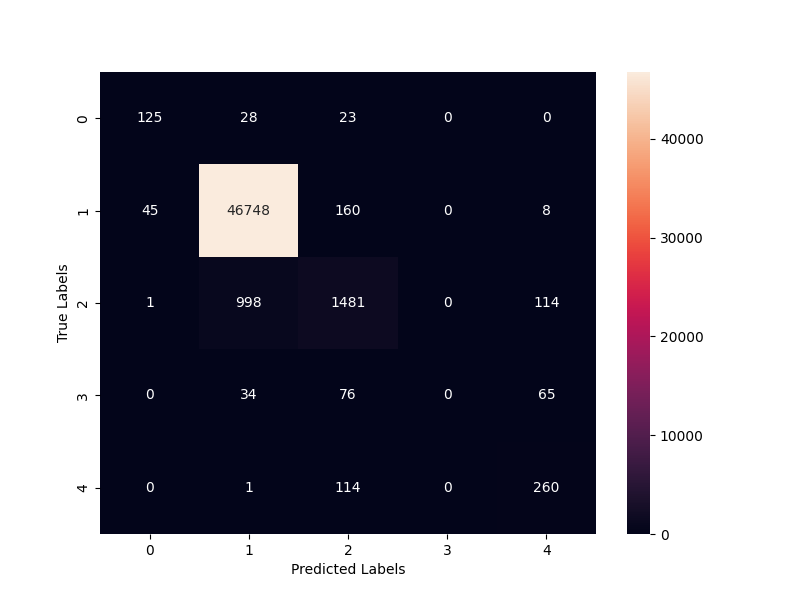
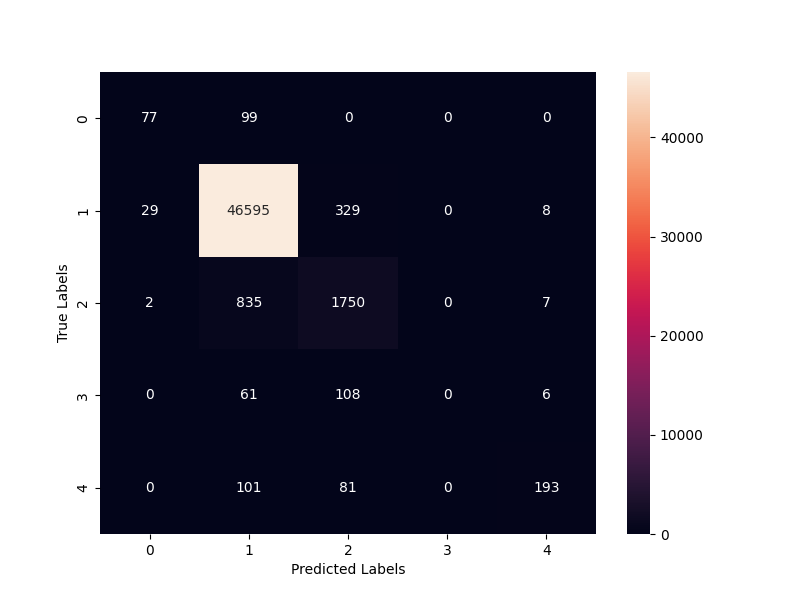
final

diff --git a/model/XGBoost.py b/model/XGBoost.py
@@ -9,36 +9,74 @@ from sklearn.metrics import confusion_matrix, precision_recall_fscore_support
 import seaborn as sns
 import matplotlib.pyplot as plt
 
-with open("test4.txt", "w") as f:
-    f.write("OK " )
-
 X, y = get_data()
 X_train, X_test, y_train, y_test = train_test_split(X, y, test_size=0.2, stratify=y, random_state=42)
 
-# Thay thế KNeighborsClassifier bằng GradientBoostingClassifier
-gb_classifier = GradientBoostingClassifier()  
+# # Thay thế KNeighborsClassifier bằng GradientBoostingClassifier
+# gb_classifier = GradientBoostingClassifier() 
 
-gb_classifier.fit(X_train, y_train)
-predictions = gb_classifier.predict(X_test)
+# param_grid = {
+#     'n_estimators': [100, 200, 300],
+#     'learning_rate': [0.01, 0.1, 0.2],
+#     'max_depth': [3, 4, 5]
+# } 
+
+# gb_classifier.fit(X_train, y_train)
+# predictions = gb_classifier.predict(X_test)
 
 # Evaluate the classifier
-accuracy = gb_classifier.score(X_test, y_test)
+# accuracy = gb_classifier.score(X_test, y_test)
 
-# Calculate metrics
-precision, recall, f1_score, _ = precision_recall_fscore_support(y_test, predictions, average='macro')
-confusion_matrix_result = confusion_matrix(y_test, predictions)
+# # Calculate metrics
+# precision, recall, f1_score, _ = precision_recall_fscore_support(y_test, predictions, average='macro')
+# confusion_matrix_result = confusion_matrix(y_test, predictions)
 
-# Save metrics to file
-with open("result/metrics_gb.txt", "w") as f:
-    f.write(f'+ precision = {precision:.3f}\n')
-    f.write(f'+ recall = {recall:.3f}\n')
-    f.write(f'+ f1_score = {f1_score:.3f}\n')
-    f.write(f'+ accuracy = {accuracy:.3f}\n')
+# # Save metrics to file
+# with open("result/metrics_gb.txt", "w") as f:
+#     f.write(f'+ precision = {precision:.3f}\n')
+#     f.write(f'+ recall = {recall:.3f}\n')
+#     f.write(f'+ f1_score = {f1_score:.3f}\n')
+#     f.write(f'+ accuracy = {accuracy:.3f}\n')
 
-# Save confusion matrix plot to file
-plt.figure(figsize=(8,6))
-ax = sns.heatmap(data=confusion_matrix_result, fmt="d", annot=True)
-ax.set_xlabel("Predicted Labels")
-ax.set_ylabel("True Labels")
-plt.savefig("result/confusion_matrix_gb.png")  # Save the plot to a file
-plt.close()
+# # Save confusion matrix plot to file
+# plt.figure(figsize=(8,6))
+# ax = sns.heatmap(data=confusion_matrix_result, fmt="d", annot=True)
+# ax.set_xlabel("Predicted Labels")
+# ax.set_ylabel("True Labels")
+# plt.savefig("result/confusion_matrix_gb.png")  # Save the plot to a file
+# plt.close()
+
+
+
+from xgboost import XGBClassifier
+from sklearn.model_selection import GridSearchCV
+from sklearn.metrics import accuracy_score
+
+# Define the classifier
+xgb_classifier = XGBClassifier()
+
+# Define the parameter grid for tuning
+param_grid = {
+    'n_estimators': [100, 200, 300],
+    'learning_rate': [0.01, 0.1, 0.2],
+    'max_depth': [3, 4, 5]
+}
+
+# Perform Grid Search Cross Validation
+grid_search = GridSearchCV(estimator=xgb_classifier, param_grid=param_grid, cv=3, scoring='accuracy')
+grid_search.fit(X_train, y_train)
+
+# Get the best parameters
+best_params = grid_search.best_params_
+
+# Train the model with the best parameters
+best_xgb_classifier = XGBClassifier(**best_params)
+best_xgb_classifier.fit(X_train, y_train)
+
+# Make predictions
+predictions = best_xgb_classifier.predict(X_test)
+
+# Evaluate the classifier
+accuracy = accuracy_score(y_test, predictions)
+print("Best Parameters:", grid_search.best_params_)
+print("Best Accuracy:", grid_search.best_score_)

diff --git a/model/ANN.py b/model/ANN.py
@@ -25,8 +25,8 @@ X_train, X_test, y_train, y_test = train_test_split(X, y, test_size=0.2, stratif
 # Model
 model = Sequential()
 # input shape
-model.add(Dense(10, activation='relu', input_shape=(16,)))
-# model.add(Dense(28, activation='relu'))
+model.add(Dense(20, activation='relu', input_shape=(16,)))
+model.add(Dense(10, activation='relu'))
 model.add(Dense(num_classes, activation='softmax'))
 
 # Process
@@ -59,4 +59,32 @@ ax = sns.heatmap(data=confusion_matrix_result, fmt="d", annot=True)
 ax.set_xlabel("Predicted Labels")
 ax.set_ylabel("True Labels")
 plt.savefig("result/confusion_matrix_ann.png")  # Save the plot to a file
-plt.close()
+# plt.close()
+
+
+# # Thử với các learning rate khác nhau (giữ nguyên các layer, node và activation function)
+# learning_rate = [0.1, 0.005, 0.01, 0.00001, 0.2]
+# colors = ['r', 'g', 'b', 'y', 'c']
+# for i, lr in enumerate(learning_rate):
+#     model = Sequential()
+    
+#     model.add(Dense(10, activation='relu', input_shape=(16,)))
+#     model.add(Dense(num_classes, activation='softmax'))
+
+#     model.compile(loss='categorical_crossentropy',
+#                     optimizer=Adam(learning_rate=lr),
+#                     metrics=['accuracy'])
+#     print('\nLearning rate = %f' %(lr))
+#     H = model.fit(X_train, y_train,
+#               batch_size=batch_size,
+#               epochs=epochs,
+#               verbose=1,  # log or not
+#               )
+#     plt.plot(H.history['accuracy'], colors[i])
+  
+# plt.title('Loss with Different Learning rates')
+# plt.legend(learning_rate)
+# plt.tight_layout()
+# plt.xlabel('Number of Epochs')
+# plt.ylabel('Accuracy')
+# plt.show()

diff --git a/model/K-mean.py b/model/K-mean.py
@@ -1,0 +1,25 @@
+import sys
+sys.path.append('../')
+
+from data.get_data import get_data
+from sklearn.cluster import KMeans
+import numpy as np
+
+
+X, y = get_data()
+# X_train, X_test, y_train, y_test = train_test_split(X, y, test_size=0.2, stratify=y, random_state=42)
+kmeans = KMeans(n_clusters=5)
+kmeans.fit(X)
+centroids = kmeans.cluster_centers_
+
+# Gán nhãn của các cụm cho từng điểm dữ liệu
+labels = kmeans.labels_
+
+
+# labels chứa nhãn của từng điểm dữ liệu
+# Đếm số lượng điểm trong từng cụm bằng cách đếm số lượng điểm có nhãn tương ứng
+unique, counts = np.unique(labels, return_counts=True)
+
+# In ra số lượng của từng cụm
+for cluster, count in zip(unique, counts):
+    print(f"Cụm {cluster}: {count} điểm")

diff --git a/model/GA.py b/model/GA.py
@@ -52,11 +52,9 @@ for generation_id in range(num_generations):
     # print(f'generation {generation_id}: accuracy: {final_accuracy.mean()}, fitness:{rankedsolutions[0][0]}, f1_score;{valuate_f1_score(theta)}')
     list_high_fitness.append(rankedsolutions[0][0])
     
-    # if rankedsolutions[0][0] >=0.8:
-    #     break
 
     bestSolutions = rankedsolutions[:20] + rankedsolutions[-5:]
-
+    print(bestSolutions)
     newGen = [rankedsolutions[0][1]]
     for _ in range(num_solutions-1):
         # Crossover
@@ -70,7 +68,6 @@ for generation_id in range(num_generations):
         normalized_mutated_child1 = normalize_theta(mutated_child1)
         newGen.append(normalized_mutated_child1)
     solutions = newGen
-print(1)
   
 theta=np.array(solutions[0])
 save_to_file(theta)

diff --git a/model/KNN.py b/model/KNN.py
@@ -9,8 +9,6 @@ from sklearn.metrics import confusion_matrix, precision_recall_fscore_support
 import seaborn as sns
 import matplotlib.pyplot as plt
 
-with open("test3.txt", "w") as f:
-    f.write("OK " )
 
 X, y = get_data()
 X_train, X_test, y_train, y_test = train_test_split(X, y, test_size=0.2, stratify=y, random_state=42)

diff --git a/model/SVC.py b/model/SVC.py
@@ -11,8 +11,6 @@ import seaborn as sns
 import matplotlib.pyplot as plt
 
 
-with open("test.txt", "w") as f:
-    f.write("OK " )
 # Load data
 X, y = get_data()
 y = np.reshape(y, (-1, 1))
